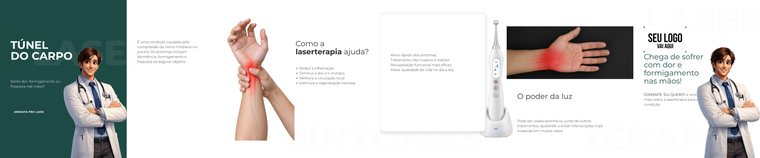
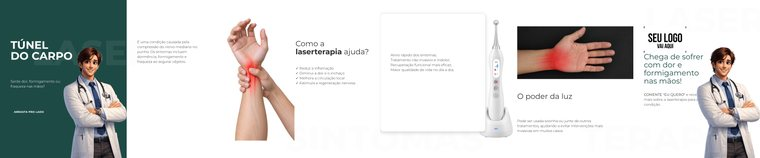
laserpro: travessias verticais, cartao com canto e contorno
Feedback do Gustavo: as imagens de transicao precisam ser verticais, e faltava
o cartao com sombra aparente e canto arredondado.

- As duas fotos de travessia foram regeradas em RETRATO 1024x1536 (eram
  paisagem 1536x1024 — deitadas nao tinham altura para atravessar a emenda de
  um slide 1080x1350).
- Cartao: raio 30px e contorno cinza, medidos em pack-queue/laserpro/4.png. A
  borda da lamina e uma linha de 1px (45,45,45), nao sombra difusa, e a curva
  se afasta ~5px em ~13px de altura numa lamina de 432px — ~30px em 1080.
- A borda foi declarada OPACA (#B4B4B4) e nao rgba: o conversor passa a cor por
  rgb2hex, que descarta o alfa, entao rgba(0,0,0,.30) chegava ao Fabric como
  #000000 — contorno preto duro em vez de cinza.
- Centrar o aparelho na emenda o jogava ATRAS da faixa do slide 5, cortado ao
  meio; ele fica no fim do slide 4 com so a base entrando no 5, como na lamina.
  A faixa do 5 recuou uma coluna para a base respirar.

Changed region(s): [[0.6658, 0.1519, 0.8171, 0.5063]]

diff --git a/engine/design-system.css b/engine/design-system.css
@@ -306,7 +306,10 @@ img[data-overhang="br"]     { transform: translate(28%, 30%) rotate(-12deg); }
 /* sombra suave SEM elevar: o cartao continua abaixo da .fita-layer, entao um
    elemento da camada (um aparelho recortado, p.ex.) passa POR CIMA dele —
    que e o desenho do laserpro. data-elevated cria z-index 2 e bloqueia isso. */
-.ds-card[data-shadow-soft] { box-shadow: 0 10px 34px rgba(0,0,0,.16); border: 1px solid rgba(0,0,0,.30); }
+/* borda OPACA, nao rgba: o conversor passa a cor por rgb2hex, que descarta o
+   alfa — rgba(0,0,0,.30) virava #000000, um contorno preto duro de 1px no
+   Fabric. #B4B4B4 e o cinza equivalente aos 30% sobre branco, ja resolvido. */
+.ds-card[data-shadow-soft] { box-shadow: 0 10px 34px rgba(0,0,0,.16); border: 1px solid #B4B4B4; }
 /* CANTO do cartao do laserpro. Medido na lamina 4 (432px de largura): a curva
    se afasta ~5px em ~13px de altura, o que da raio ~12px ali e ~30px em 1080.
    O --radius global de 8px sumia no render, e a borda de 6% tambem: na lamina

diff --git a/packs/laserpro-continuo/exemplos/ref-estrutura.html b/packs/laserpro-continuo/exemplos/ref-estrutura.html
@@ -76,7 +76,7 @@
        margem — é assim na lâmina. Tese e apoio abaixo. -->
   <section class="slide" data-role="item">
     <img class="ds-photo" data-el-id="s5f" data-static data-image-type="generated"
-         src="foto-faixa-dor.png" style="grid-area: 3 / 1 / 7 / 13">
+         src="foto-faixa-dor.png" style="grid-area: 3 / 2 / 7 / 13">
     <h2 class="ds-headline" data-el-id="s5t" data-case="sentence" data-weight="light"
         data-template-element data-te-description="tese curta"
         data-te-min-chars="8" data-te-max-chars="26"
